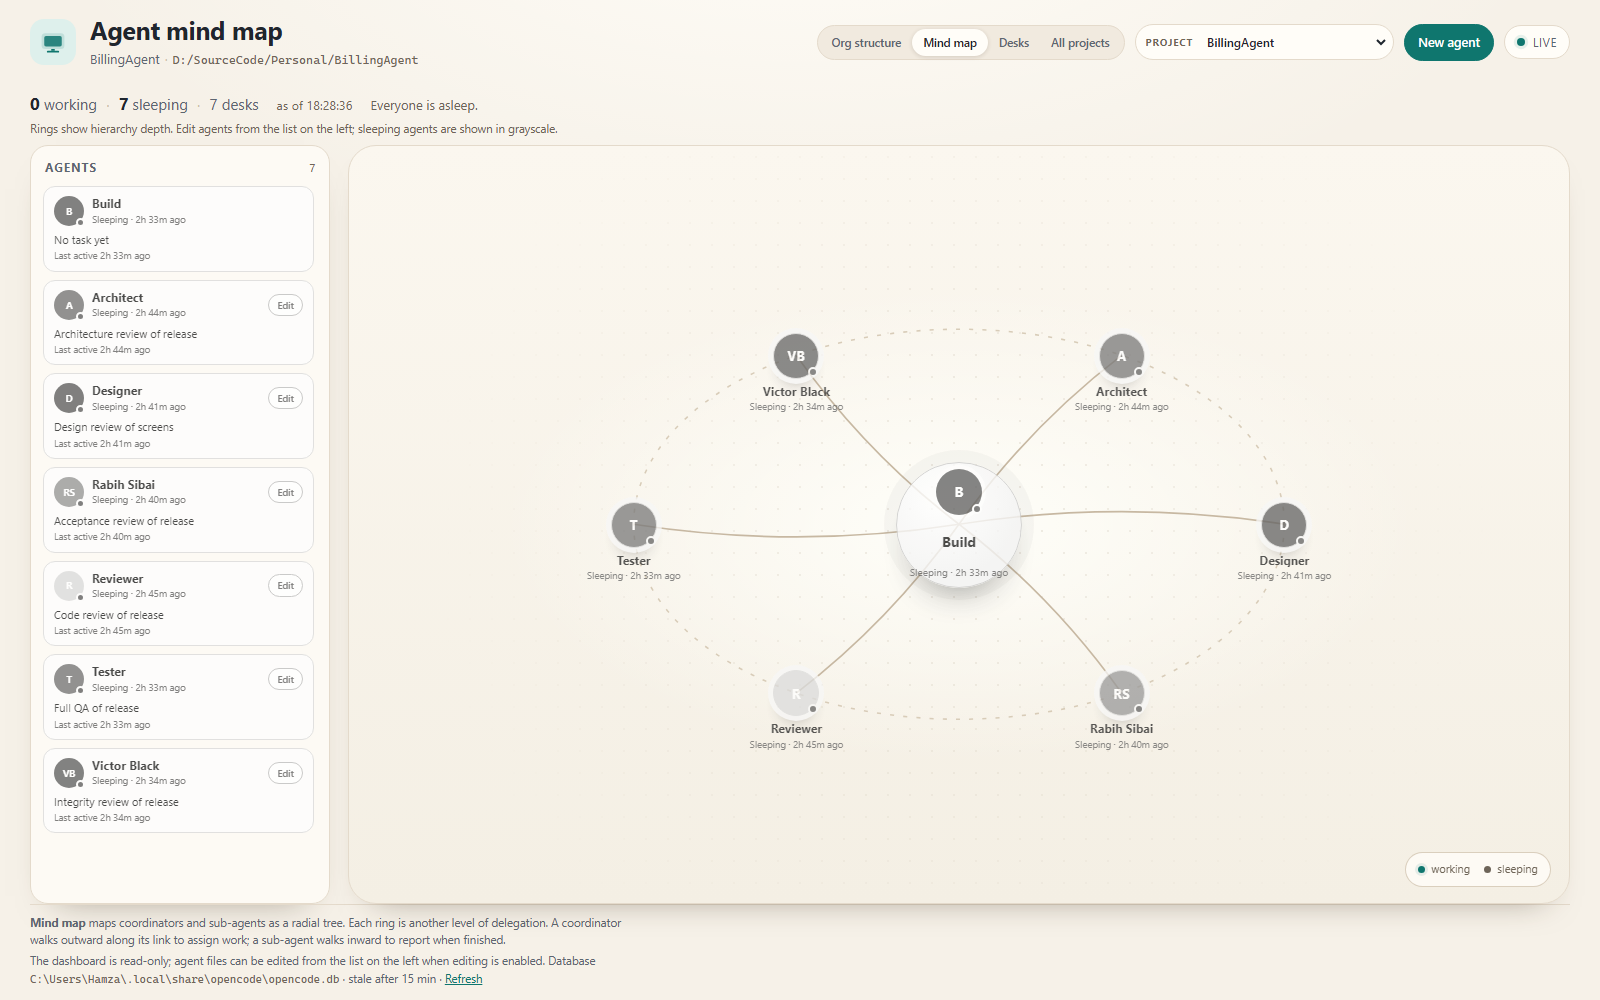
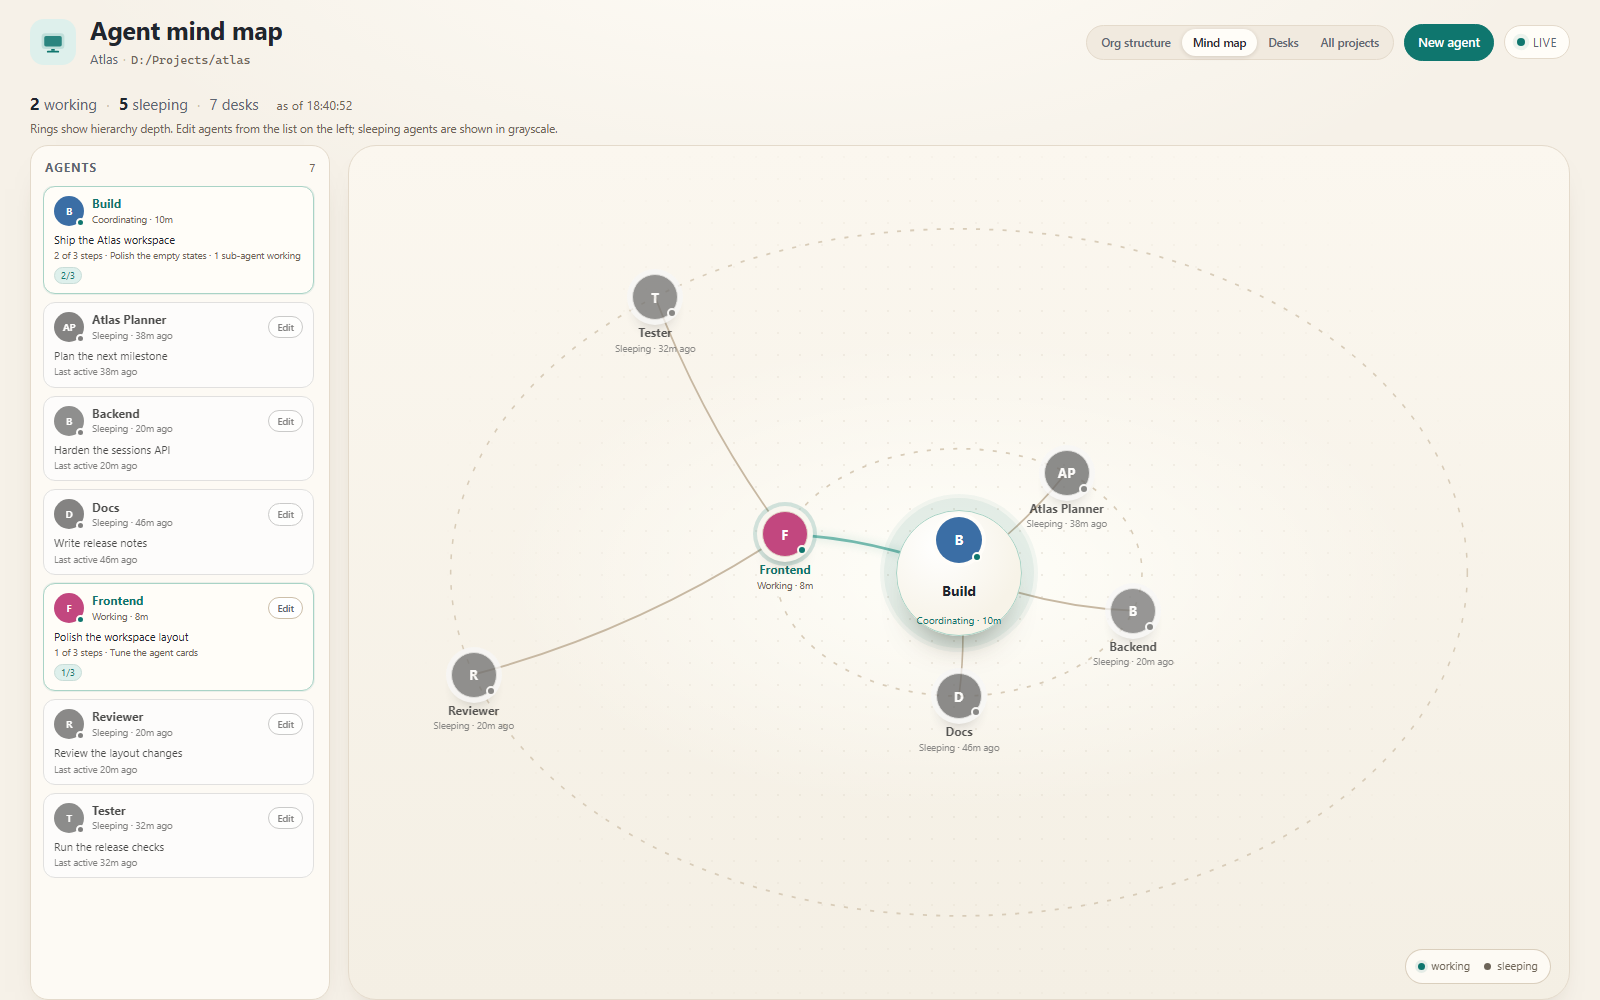
Add live working and sleeping agent demo GIF

diff --git a/README.md b/README.md
@@ -104,7 +104,10 @@ links when assigning work. Motion respects `prefers-reduced-motion`.
 The original office view. Every agent gets a desk: typing when working, asleep
 when not. Each card carries its last task and how long ago it was active.
 
-![Desks view](docs/desks.png)
+![Working and sleeping agents updating live](docs/working-sleeping.gif)
+
+*Working agents type, sleeping agents show `zzz`, and status changes arrive
+without refreshing the page.*
 
 ### All projects
 
